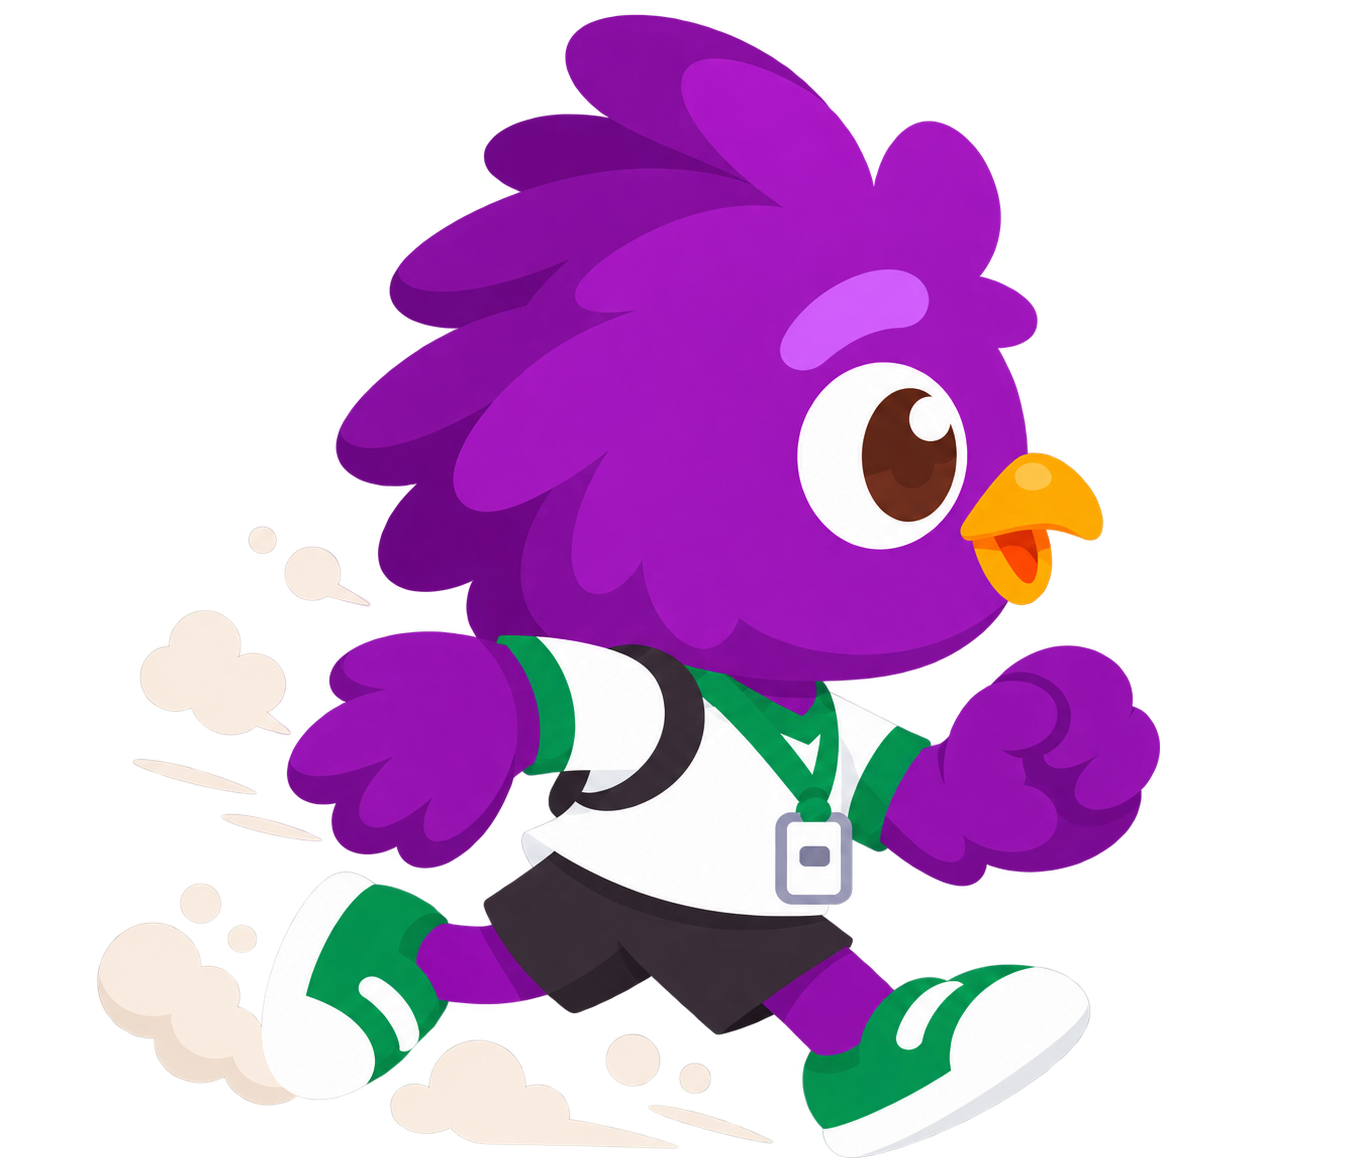
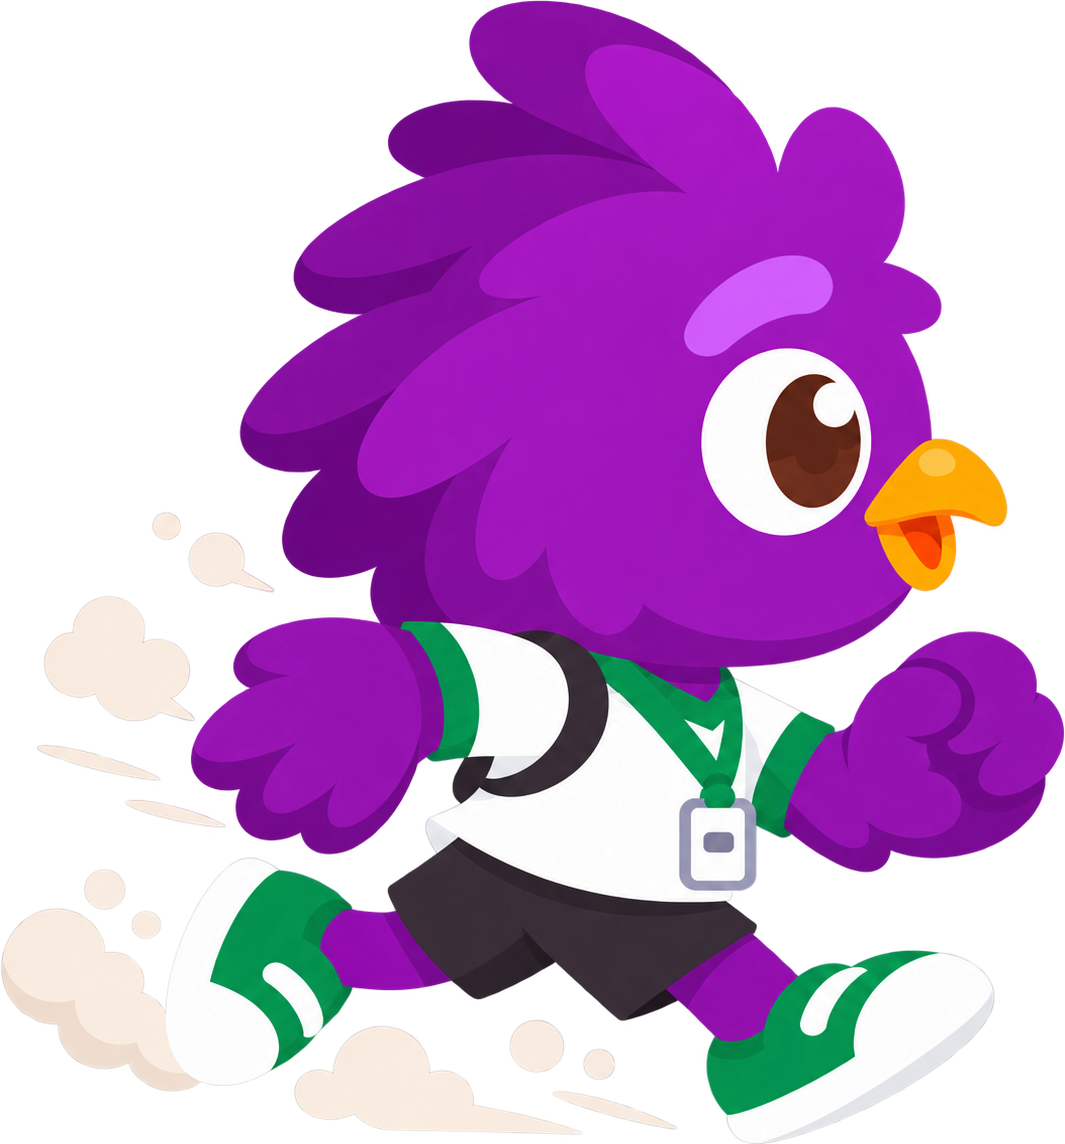
fix(ui): center Hawi mascot and copy on transition overlay

diff --git a/src/components/common/WaveTransition.tsx b/src/components/common/WaveTransition.tsx
@@ -121,30 +121,7 @@ export const WaveTransition: React.FC<WaveTransitionProps> = ({
           </svg>
         )}
 
-        <div className="flex-1 bg-gradient-to-r from-[#451475] via-[#351059] to-[#24133F] relative flex items-center justify-center shadow-2xl">
-          {/* Centered Hawi Sprinting Mascot & Copy */}
-          <div
-            className={`flex flex-col items-center justify-center text-center px-6 transition-all duration-300 ${
-              phase === 'enter' && animating ? 'opacity-100 scale-100' : 'opacity-0 scale-95'
-            }`}
-          >
-            <div className="relative mb-2">
-              <img
-                src={hawiSprintImg}
-                alt="Hawi Sprinting"
-                className={`h-32 w-auto sm:h-44 object-contain drop-shadow-[0_16px_32px_rgba(0,0,0,0.5)] ${
-                  isLtr ? '' : 'scale-x-[-1]'
-                }`}
-              />
-            </div>
-            <h2 className="text-xl sm:text-2xl font-black text-white tracking-tight drop-shadow-md">
-              {isLtr ? 'Welcome to Super Admin' : 'Signed Out'}
-            </h2>
-            <p className="mt-1.5 text-sm font-medium text-white/80 drop-shadow-sm">
-              {message || (isLtr ? 'Entering Dashboard…' : 'Returning to Login…')}
-            </p>
-          </div>
-        </div>
+        <div className="flex-1 bg-gradient-to-r from-[#451475] via-[#351059] to-[#24133F] relative shadow-2xl" />
 
         {isLtr && (
           <svg
@@ -155,6 +132,29 @@ export const WaveTransition: React.FC<WaveTransitionProps> = ({
             <path d="M0,0 C80,200 20,360 70,540 C120,720 30,860 0,1000 Z" fill="currentColor" />
           </svg>
         )}
+
+        {/* Viewport-Centered Hawi Sprinting Mascot & Copy */}
+        <div
+          className={`absolute left-[25vw] w-[100vw] inset-y-0 flex flex-col items-center justify-center text-center px-6 transition-all duration-300 z-10 ${
+            phase === 'enter' && animating ? 'opacity-100 scale-100' : 'opacity-0 scale-95'
+          }`}
+        >
+          <div className="relative mb-2">
+            <img
+              src={hawiSprintImg}
+              alt="Hawi Sprinting"
+              className={`h-32 w-auto sm:h-44 object-contain drop-shadow-[0_16px_32px_rgba(0,0,0,0.5)] ${
+                isLtr ? '' : 'scale-x-[-1]'
+              }`}
+            />
+          </div>
+          <h2 className="text-xl sm:text-2xl font-black text-white tracking-tight drop-shadow-md">
+            {isLtr ? 'Welcome to Super Admin' : 'Signed Out'}
+          </h2>
+          <p className="mt-1.5 text-sm font-medium text-white/80 drop-shadow-sm">
+            {message || (isLtr ? 'Entering Dashboard…' : 'Returning to Login…')}
+          </p>
+        </div>
       </div>
     </div>
   );
